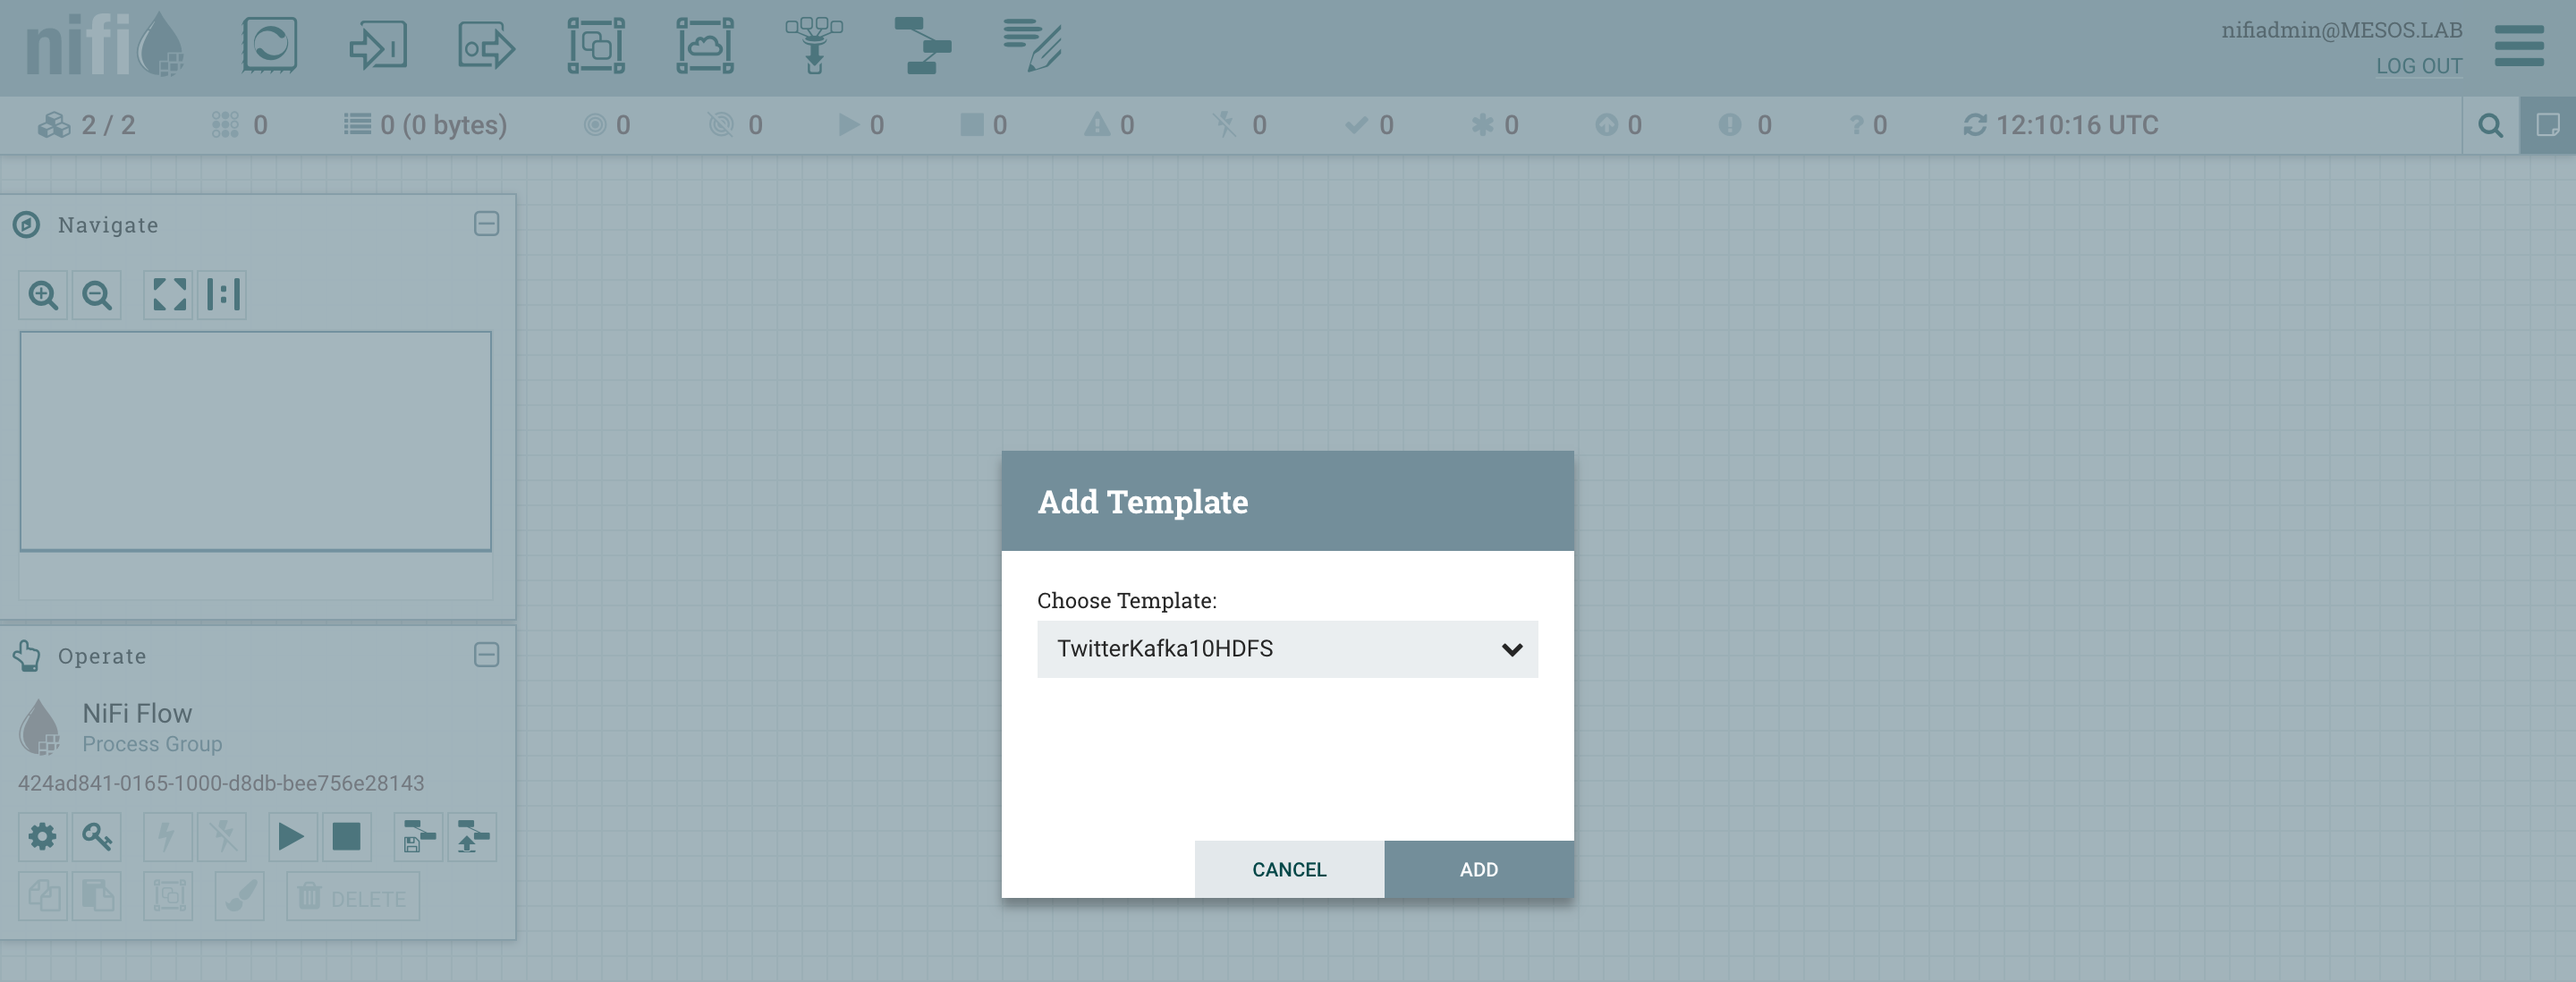
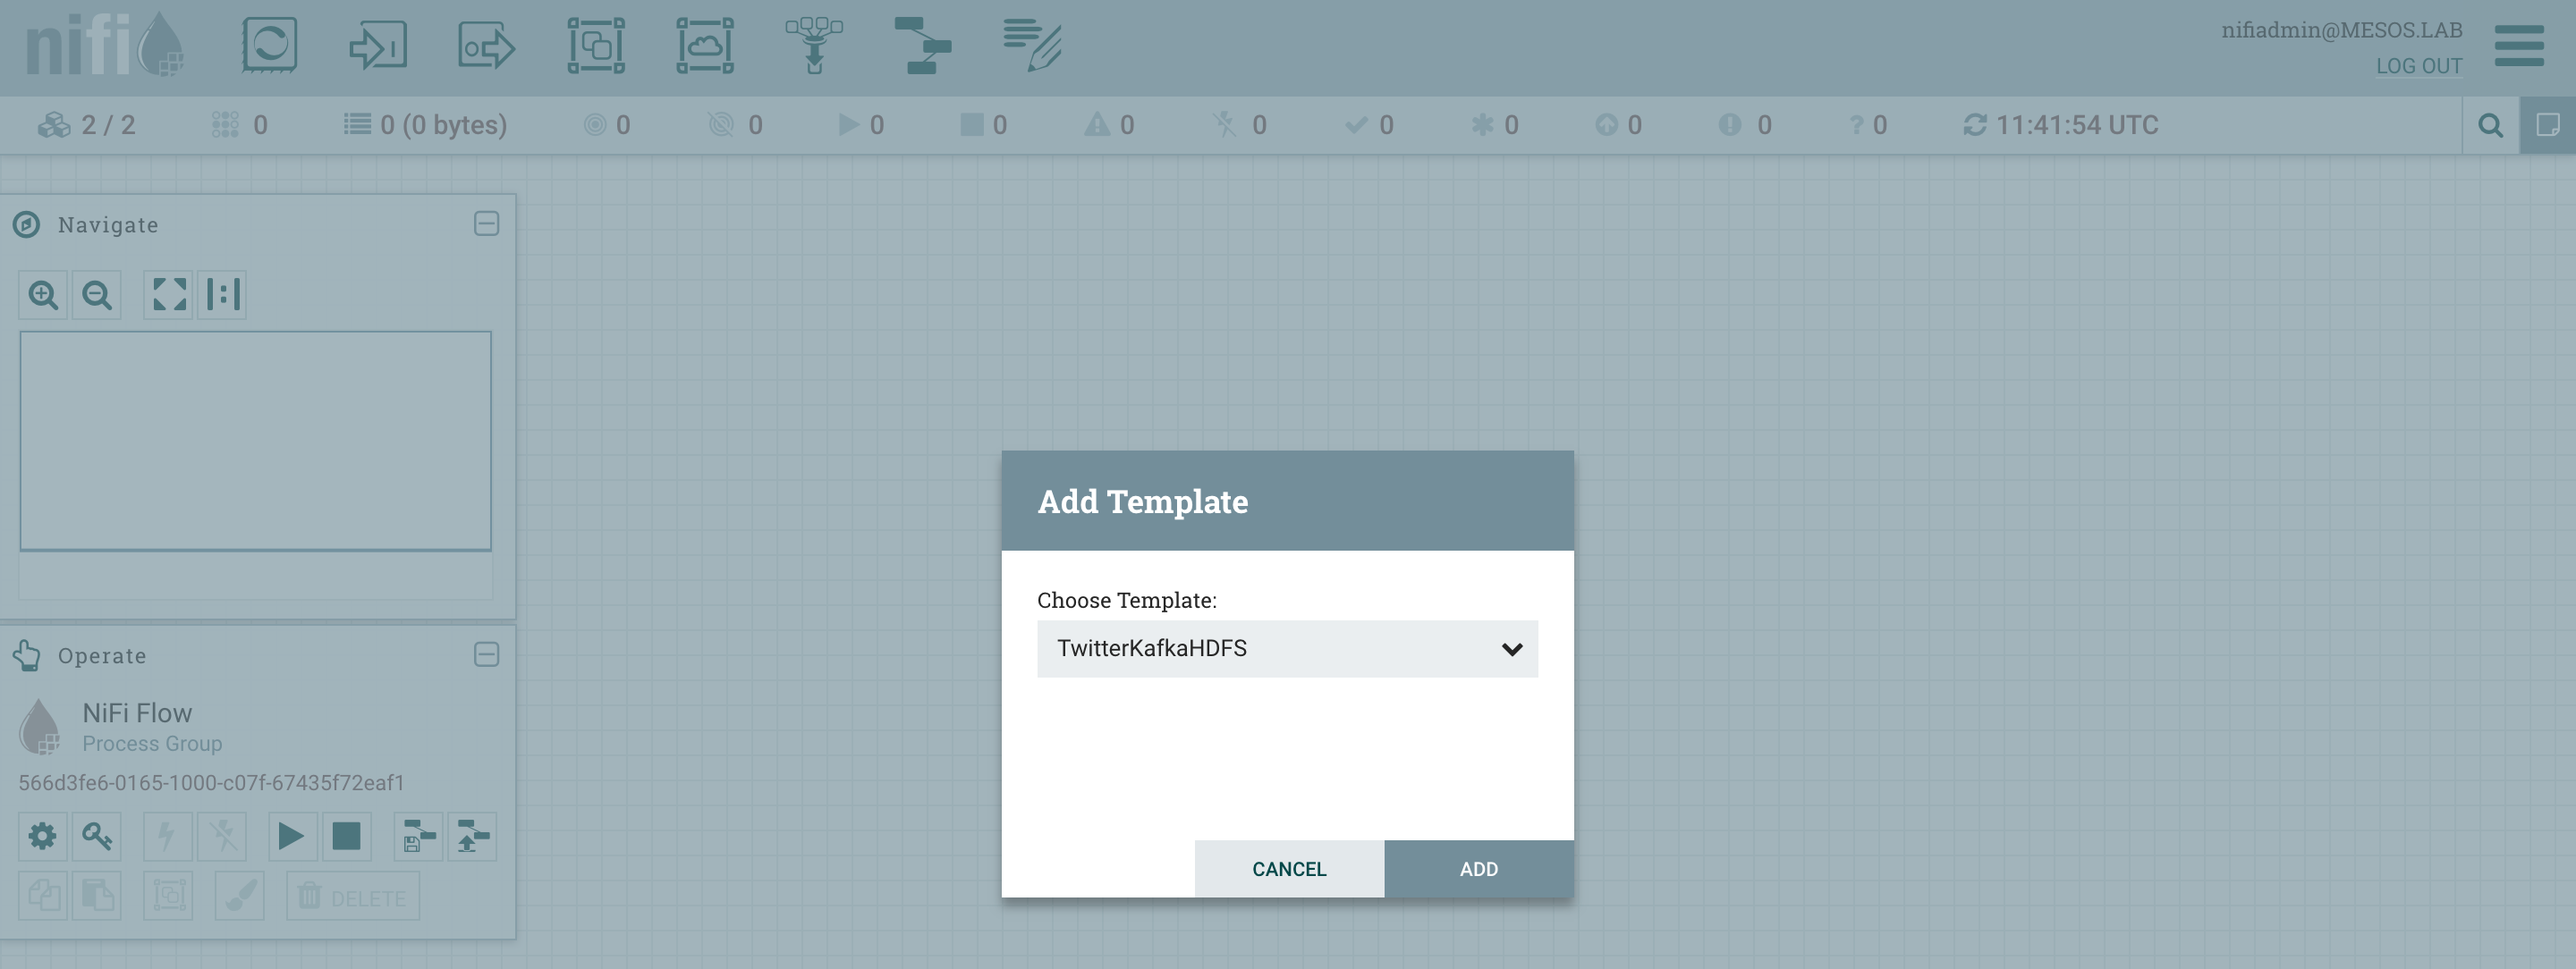
Few improvements after further testing

diff --git a/README.md b/README.md
@@ -71,6 +71,8 @@ You can see the accuracy displayed at the end of the log:
 
 ![log](images/log.png)
 
+Stop the Spark job using `dcos spark kill` to free resources.
+
 The 3 Spark jobs are using a jar file that has also been uploaded to an Amazon S3 bucket to simplify the process.
 
 The source code is available [here](https://github.com/djannot/spark-build/blob/master/tests/jobs/scala/src/main/scala/SpamHam.scala).
@@ -171,51 +173,21 @@ Login with `nifiadmin@MESOS.LAB` using the password `password`.
 
 ![nifi](images/nifi.png)
 
-Click on the top right corner, and select `Users`.
-
-![nifi-users](images/nifi-users.png)
-
-Create a new group called `admins` and select all the members.
-
-![nifi-admins](images/nifi-admins.png)
-
-Right click on the background and select `Manage access policies`
-
-![nifi-policies](images/nifi-policies.png)
-
-Create new policies to provide the necessary permissions to the `admins` group.
-
-![nifi-create-policy](images/nifi-create-policy.png)
-
-Click on the `Create` link.
-
-![nifi-create-policy2](images/nifi-create-policy2.png)
-
-Now, you can click on the icon on the top right to add users/groups.
-
-![nifi-create-policy-admins](images/nifi-create-policy-admins.png)
-
-Add the `admins` group.
-
-Use the Drop down list to follow the same steps for the following policies:
-
-- modify the component
-- view the data
-- modify the data
-
 Right click on the background.
 
 ![nifi-templates](images/nifi-templates.png)
 
-Select `Upload template` and upload the `TwitterKafka10HDFS.xml` template.
+Select `Upload template` and upload the `TwitterKafkaHDFS.xml` template.
 
-![nifi-add-template](images/nifi-add-template.png)
+![nifi-add-template](images/nifi-upload-template.png)
 
 Drag and drop the template icon and select the `TwitterKafka10HDFS.xml` template.
 
-![nifi-template](images/nifi-template.png)
+![nifi-add-template](images/nifi-add-template.png)
 
 As you can see, there are few warnings. They are corresponding to the sensitive information that can't be stored in a template.
+
+![nifi-template](images/nifi-template.png)
 
 Double click on the `PublishKafka_0_10` processor.
 
